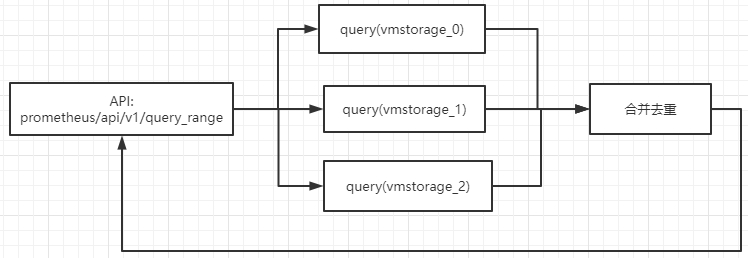
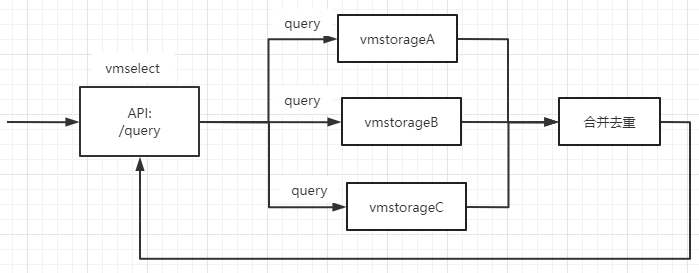
add influx vs vm

Changed region(s): [[0.0, 0.0, 1.0, 0.9922], [0.1502, 0.2171, 0.2403, 0.2791], [0.9313, 0.124, 1.0, 0.155]]

diff --git a/system_engineering/influxdb_vs_vm.md b/system_engineering/influxdb_vs_vm.md
@@ -1,0 +1,259 @@
+
+
+influxdb集群0.11版本后不再开源。
+
+victoriametrics(简称vm)集群开源。
+
+
+
+### 一. influxdb的集群实现
+
+
+
+![](D:\GrowingNotes\system_engineering\img\influx-cluster-arch.jpg)
+
+meta data: 保存db/retention policy/shardgroups/shard等信息，通过Raft协议，保证强一致；
+
+node data: 保存时序数据，通过hinted handoff队列、anti-entropy机制，保证最终一致；
+
+
+
+#### 1. insert流程
+
+* 根据时序数据的时间，按shardGroup存放；
+
+```
+// 根据retention pliciy time计算shardGroup时间
+func shardGroupDuration(d time.Duration) time.Duration {
+	if d >= 180*24*time.Hour || d == 0 { // 6 months or 0
+		return 7 * 24 * time.Hour
+	} else if d >= 2*24*time.Hour { // 2 days
+		return 1 * 24 * time.Hour
+	}
+	return 1 * time.Hour
+}
+```
+
+* 每个shardGroup下，保存N个shard；(N>=1)
+
+```
+shardN = len(dataNodes)/repliaN;
+```
+
+* 每个shard有2个replica；
+
+```
+/ # influxd_ctl show-shards
+ID      GroupID Database        RetentionPolcy  Replicas        Owners          StartTime                       EndTime
+1       1       opsultra        six_month       2               node1:8088,node2:8088  2022-06-27 08:00:00 +0800 CST   2022-07-04 08:00:00 +0800 CST
+2       2       opsultra        six_month       2               node2:8088,node3:8088  2022-07-04 08:00:00 +0800 CST   2022-07-11 08:00:00 +0800 CST
+```
+
+
+
+![](D:\GrowingNotes\system_engineering\img\influx-cluster-write.jpg)
+
+
+
+
+
+#### 2. query流程
+
+* API /query执行查询时，可能涉及多个statement，多个statement被顺序执行；(通常只有1个)
+* 在执行每个statement时，根据timeRange确定ClusterShardMapping(包含localShardMapping+remoteShardGroup)；
+* 执行TSDBB本地查询和TCP远程查询，将结果merge返回给client；
+
+![](D:\GrowingNotes\system_engineering\img\influx-cluster-read.jpg)
+
+
+
+某个shard有N个replica，每个replica都有1个shardOwner，在查询时，如何对多个shardOwner执行查询？
+
+* 随机选择一个shardOwner节点，若可以建立连接，则执行查询；
+* 否则，尝试下一个节点，建立连接，执行查询；
+* 也就是说，只会查询其中1个shardOwner；
+
+
+
+#### 3. hinted handoff队列
+
+influxdb集群场景下，1个shard有N个replcia，通常replica在不同的节点上；写shard时，所有的replica都要写入。
+
+* 当远端的replica写入失败时，会先存储到本机的hinted-handoff队列；
+* 本机会定期的将hinted-handoff队列的内容发送给远端节点，达到数据的最终一致；
+
+![](D:\GrowingNotes\system_engineering\img\influx-cluster-hh.jpg)
+
+
+
+#### 4. anti-entropy机制
+
+entropy是熵的概念，influxdb会定期检查shard不同副本的熵，若不同，则进行修复。
+
+该配置默认关闭，被开启时：
+
+* **丢失的分片**会自动被修复；
+* 内容不一致的分片**需要手动**(通过命令)修复；
+
+
+
+### 二. victoriametrics的集群实现
+
+
+
+#### 1. 整体架构
+
+![arch](./img/victoriametrics-arch.jpg)
+
+集群版的victoriametrics有3类进程，即3类微服务组成：
+
+* vmstorage: 数据存储节点，负责存储时序数据；
+* vmselect: 数据查询节点，负责接收用户查询请求，向vmstorage查询时序数据；
+* vminsert: 数据插入节点，负责接收用户插入请求，向vmstorage写入时序数据；
+
+
+
+集群中vmselect、vminsert节点都是无状态的，唯一有状态的是vmstorage。
+
+vmstorage的多节点采用[shared noting architecture](https://en.wikipedia.org/wiki/Shared-nothing_architecture)，各节点间不共享数据，也不知道彼此的存在。
+
+> `vmstorage` nodes don't know about each other, don't communicate with each other and don't share any data. This is [shared nothing architecture](https://en.wikipedia.org/wiki/Shared-nothing_architecture). It increases cluster availability, simplifies cluster maintenance and cluster scaling.
+
+
+
+为保证时序数据的可用性，采用复制的方法，即每份数据存入N个不同的节点，在查询时，同时查询多个节点，去重后返回给client。
+
+
+
+#### 2. insert流程
+
+写入数据在vminsert服务中处理，假设--replicationFactor=2，即数据副本=2：
+
+![](D:\GrowingNotes\system_engineering\img\victoriametrics-write-arch.jpg)
+
+插入时：
+
+* 对每条时序数据，根据其labels计算一致性hash值，作为它存入的目标节点，假设为storageNodeA；
+
+* 对于该条时序数据，由于副本=2，它将被写入storageNodeA和storageNodeA +1两个vmstorage节点；
+
+
+
+#### 3. query流程
+
+查询数据在vmselect服务中处理，假设--replicationFactor=2，即数据副本=2：
+
+![](D:\GrowingNotes\system_engineering\img\victoriametrics-read-arch.jpg)
+
+查询时：
+
+* 向N个vmstorage节点查询时序数据(N为vminsert启动时配置的vmstorage参数)；
+* 数据返回后，经过合并去重，返回给client；
+
+
+
+#### 4. 节点扩容
+
+vmselect和vminsert节点是无状态的，可以水平扩容。
+
+vmstorage的扩容：
+
+* 启动新vmstorage节点，配置跟老vmstorage节点相同；
+* 逐个下线vmselect节点，修改配置(增加storageNode)后启动；
+* 逐个下线vminsert节点，修改配置(增加storageNode)后启动；
+
+
+
+### 三. 性能对比
+
+
+
+#### 1. 测试环境
+
+* influxdb和vm容器部署，单节点；
+* 容器资源限制4C8G；
+* 测试工具：[tsbs](https://github.com/timescale/tsbs)
+
+
+
+#### 2. insert性能
+
+数据格式：
+
+```
+cpu,tag1=v1,tag2=v2,...tag10=v10 field1=fv1,filed2=fv2,...,field10=v10
+```
+
+数据量：576 w个samples。
+
+
+
+![](D:\GrowingNotes\system_engineering\img\influx-vm-insert.jpg)
+
+结论：vm的insert性能是influxdb的4倍左右。
+
+
+
+#### 3. query性能
+
+查询语句：
+
+* 简单的查询：single-groupby-1-1-1
+
+```
+## influx
+SELECT max(usage_user) from cpu where (hostname = 'host_3609') and time >= '2022-07-01T06:27:46Z' and time < '2022-07-01T07:27:46Z' group by time(1m)
+
+## vm
+query=max(max_over_time(cpu_usage_user{hostname='host_295'}[1m]))+by+(__name__)&start=1656661021&end=1656664621&step=60
+```
+
+![](D:\GrowingNotes\system_engineering\img\influx-vm-query-simple.jpg)
+
+结论：对于简单查询，vm性能比influx高1/3左右。
+
+
+
+* 复杂的查询：double-groupby-1，Aggregate on across both time and host, giving the average of 1 CPU metric per host per hour for 24 hours
+
+```
+## influx
+SELECT mean(usage_user) from cpu where time >= '2022-07-01T07:00:24Z' and time < '2022-07-01T19:00:24Z' group by time(1h),hostname
+
+## vm
+query=avg(avg_over_time(cpu_usage_user{}[1h]))+by+(__name__,+hostname)&start=1656658824&end=1656702024&step=3600
+```
+
+![](D:\GrowingNotes\system_engineering\img\influx-vm-query-complicated.jpg)
+
+结论：对于复杂查询，vm的性能比influx高10倍以上。
+
+
+
+### 四. 使用对比
+
+
+
+#### 1. 易用性
+
+* influx有强大的CLI命令，查询很方便；vm提供了类似于prometheus的查询UI，没有CLI；
+* vm的查询支持PromQL，influx不支持；
+
+
+
+#### 2. 性能
+
+* vm在insert和query性能上，均优于influx；
+
+* influx的读写容易形成流量热点：
+  * influxdb的shard归属于某个node，该shard下所有数据都写入该node；
+
+* vm按hash(labels)确定node，可以分散在多个node上；
+  * 但是查询时，要查询多个节点，导致请求数量较多；
+
+
+
+
+
+
+
